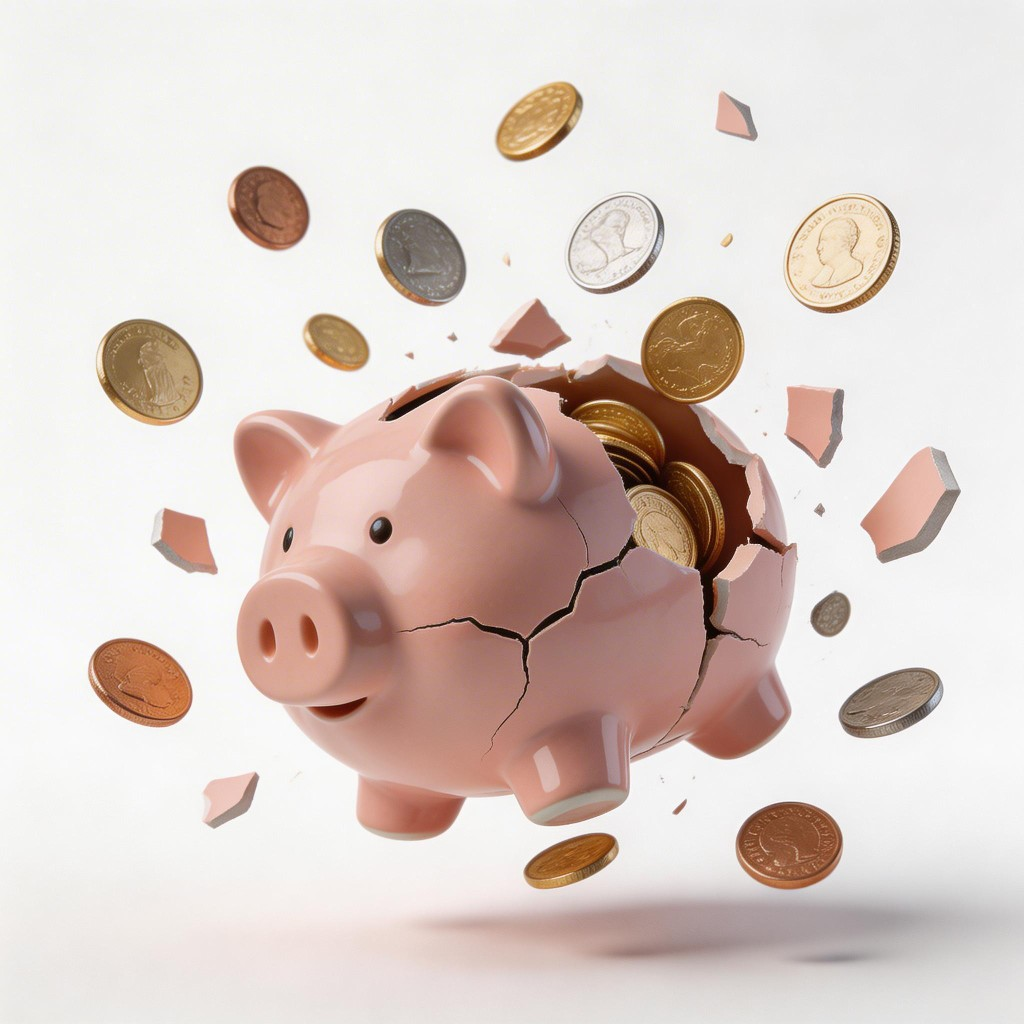
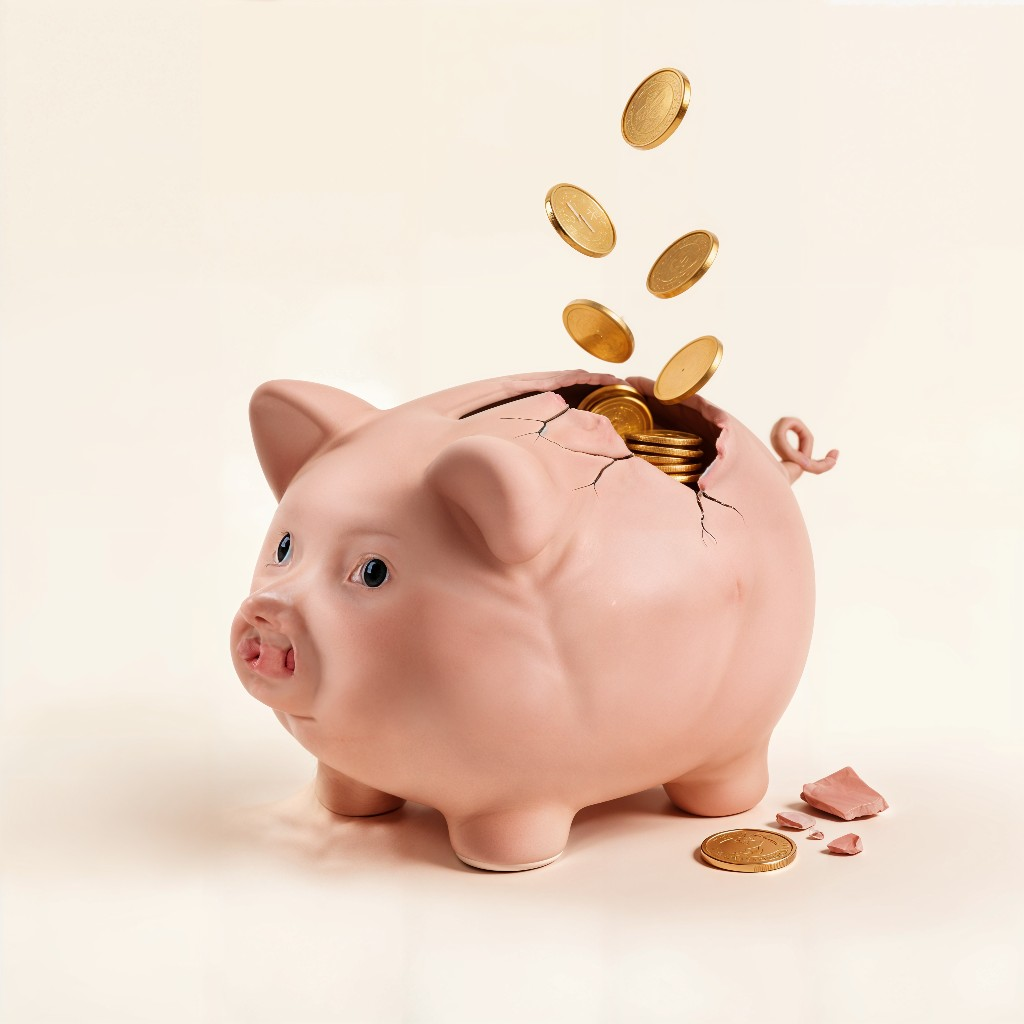
Hero: new piggy image, warm cream background (#faf8f5) for seamless blend
Made-with: Cursor

diff --git a/src/components/Hero.tsx b/src/components/Hero.tsx
@@ -7,7 +7,7 @@ const HERO_PIGGY = "/images/hero-piggy.png";
 
 export default function Hero() {
   return (
-    <div className="relative overflow-visible" style={{ background: "#f8fafb" }}>
+    <div className="relative overflow-visible" style={{ background: "#faf8f5" }}>
       <div
         className="flex flex-col items-center min-h-[560px] px-4 pt-[70px] pb-8 gap-8 md:flex-row md:items-end md:px-12 md:gap-8 md:min-h-[580px]"
         style={{ position: "relative", zIndex: 2 }}
@@ -56,7 +56,7 @@ export default function Hero() {
         <div
           className="flex-shrink-0 w-full max-w-[520px] min-h-[320px] md:min-h-[520px] relative flex-1 md:flex-initial"
         >
-          {/* Piggy bank image — no box, no container bg; floats on #f8fafb with drop-shadow only */}
+          {/* Piggy bank image — no box; background matches hero (#faf8f5 warm cream) so image blends in */}
           <div
             className="absolute left-1/2 -translate-x-1/2 bottom-0 z-[1] w-[320px] h-[320px] sm:w-[420px] sm:h-[420px] md:w-[500px] md:h-[500px] md:left-auto md:right-0 md:translate-x-0 bg-transparent"
             style={{ filter: "drop-shadow(0 12px 32px rgba(0,0,0,0.08))", background: "transparent" }}
